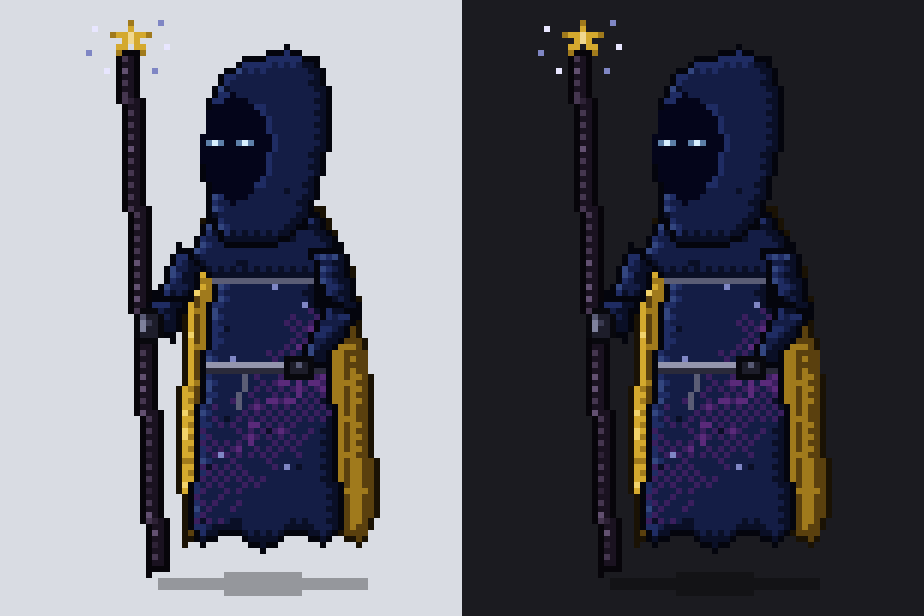
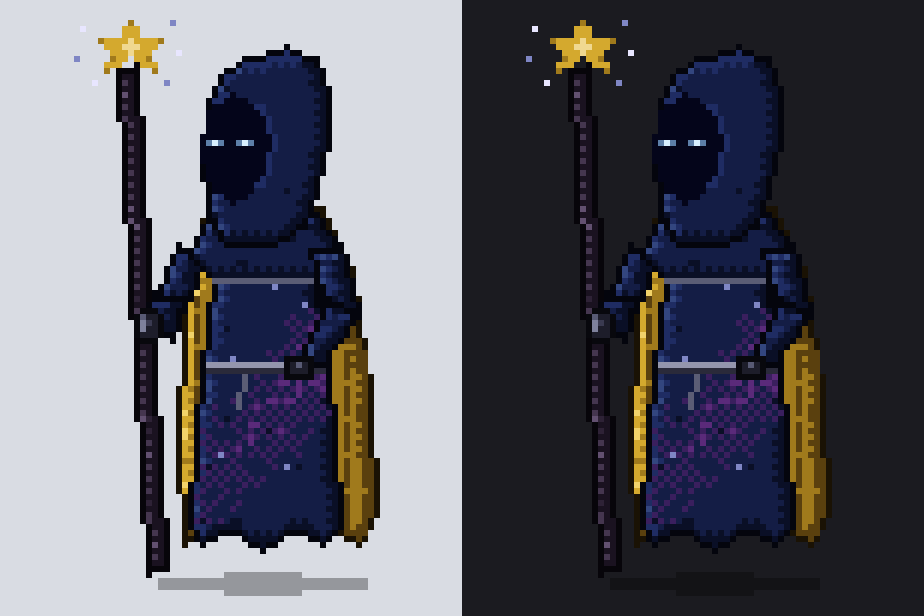
[Mage] Bigger gold star on Wizzy's staff tip

diff --git a/Glitch/Mage.swift b/Glitch/Mage.swift
@@ -323,7 +323,7 @@ enum Mage {
     /// and the figure fades. Every showing has its own shape (seeded by which showing it is).
     private struct Constellation {
         static let period = 70.0, length = 9.0
-        static let tip = CGPoint(x: 18, y: 2.5)     // the gold star on the staff sprite
+        static let tip = CGPoint(x: 18, y: 4)     // the gold star on the staff sprite
 
         let e: Double
         let stars: [(angle: Double, lift: Double, at: CGPoint)]

diff --git a/Tools/make_mage.py b/Tools/make_mage.py
@@ -222,18 +222,19 @@ eyes("eyes_angry", [(32, 21), (37, 21)], [(31, 20), (38, 20)])
 eyes("eyes_happy", [(31, 21), (32, 20), (33, 21), (36, 21), (37, 20), (38, 21)])
 
 # ------------------------------------------------------------------ staff: taller than the mage, a yellow star on its tip
-STAFF_BASE, STAFF_TOP = (23, 92), (18, 5)
+STAFF_BASE, STAFF_TOP = (23, 92), (18, 8)
 
 
 def staff_extra(im):
-    star = [(18, 0), (18, 1), (15, 2), (16, 2), (17, 2), (18, 2), (19, 2), (20, 2), (21, 2),
-            (17, 3), (18, 3), (19, 3), (16, 4), (17, 4), (19, 4), (20, 4), (16, 5), (20, 5)]
+    star = [(18, 0), (17, 1), (18, 1), (19, 1), (17, 2), (18, 2), (19, 2)] \
+        + [(x, 3) for x in range(13, 24)] + [(x, 4) for x in range(14, 23)] + [(x, 5) for x in range(15, 22)] \
+        + [(15, 6), (16, 6), (17, 6), (19, 6), (20, 6), (21, 6), (14, 7), (15, 7), (16, 7), (20, 7), (21, 7),
+           (22, 7), (14, 8), (22, 8)]
     put(im, star, RAMPS["gold"][3])
-    put(im, [(15, 2), (21, 2), (16, 5), (20, 5), (18, 0)], RAMPS["gold"][2])   # dimmer points
-    put(im, [(18, 2), (18, 3)], GOLD)
-    put(im, [(12, 1), (24, 4), (14, 8)], STAR)                # small white stars around the tip
-    put(im, [(23, 0), (11, 5), (22, 8)], STAR_DIM)
-
+    put(im, [(18, 0), (13, 3), (23, 3), (14, 8), (22, 8), (15, 6), (21, 6)], RAMPS["gold"][2])   # dimmer points
+    put(im, [(18, 3), (17, 4), (18, 4), (19, 4), (18, 5)], GOLD)
+    put(im, [(10, 1), (26, 5), (12, 10)], STAR)               # small white stars around the tip
+    put(im, [(25, 0), (9, 6), (24, 10)], STAR_DIM)
 
 parts["staff"] = combine("staff", Layer("wood", [tl(STAFF_BASE, STAFF_TOP, 2.6)], seed=29, grit=0.1),
                          extra=staff_extra)
